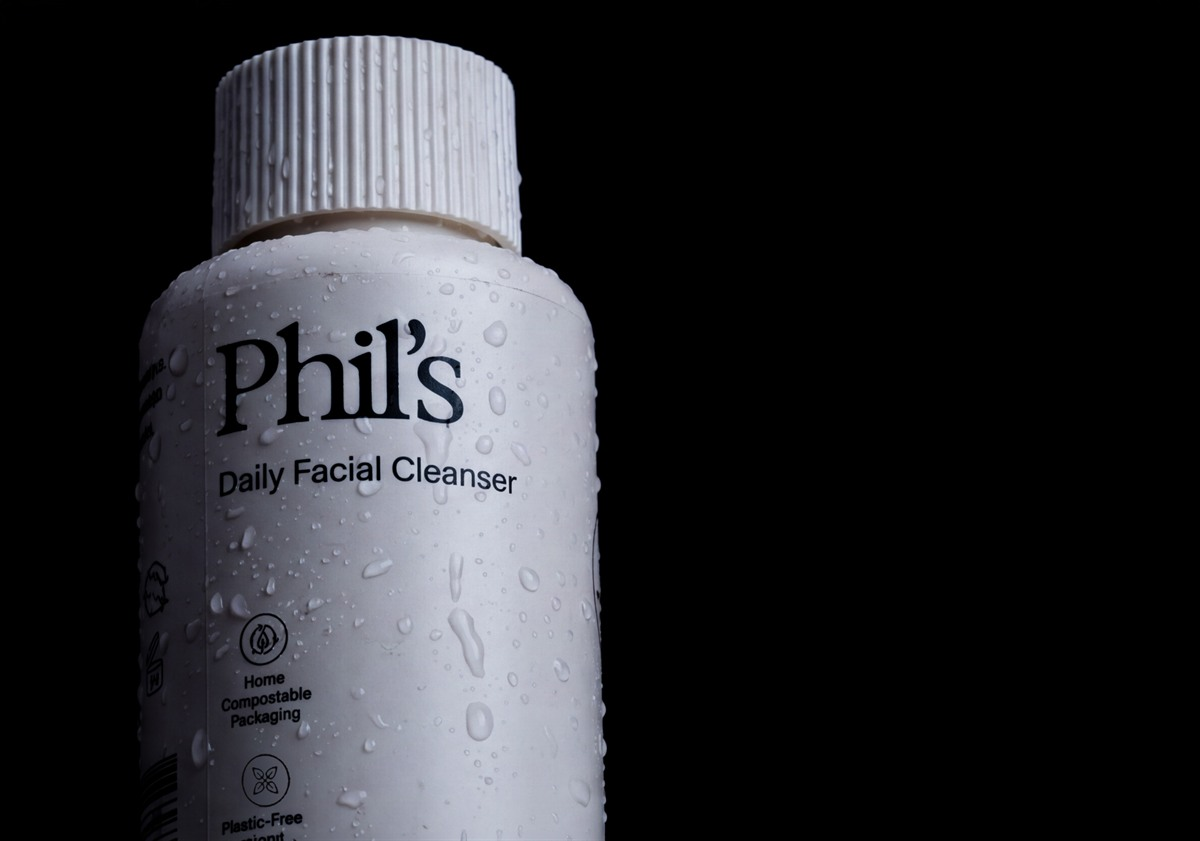
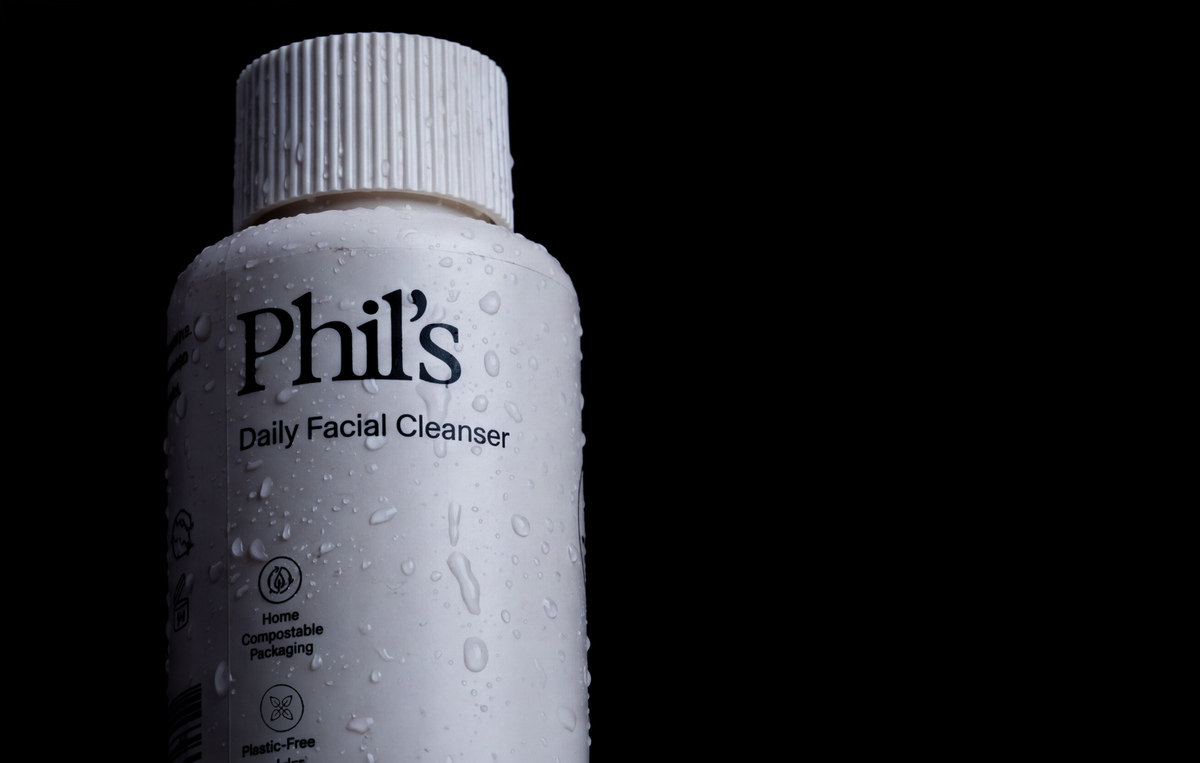
Add files via upload

diff --git a/src/styles.css b/src/styles.css
@@ -926,6 +926,18 @@ footer{background:var(--lab-panel);border-top:1px solid var(--lab-line)}
   width:31%;
   text-align:right;
 }
+.advertisement-concept-phils-daily-facial-cleanser.advertisement-concept-slide-0 .advertisement-copy{
+  left:auto;
+  right:6%;
+  width:31%;
+  text-align:right;
+}
+.advertisement-concept-phils-daily-facial-cleanser.advertisement-concept-slide-1 .advertisement-copy{
+  left:6%;
+  right:auto;
+  width:31%;
+  text-align:left;
+}
 .advertisement-concept-before-toothpaste.advertisement-concept-slide-0 .advertisement-copy{
   left:6%;
   right:auto;
@@ -943,8 +955,7 @@ footer{background:var(--lab-panel);border-top:1px solid var(--lab-line)}
   .advertisement-concept-alice-mushroom-chocolate .advertisement-copy,
   .advertisement-concept-mt-angel-joint-solution .advertisement-copy,
   .advertisement-concept-before-toothpaste.advertisement-concept-slide-0 .advertisement-copy,
-  .advertisement-concept-before-toothpaste.advertisement-concept-slide-1 .advertisement-copy,
-  .advertisement-concept-phils-daily-facial-cleanser .advertisement-copy{
+  .advertisement-concept-before-toothpaste.advertisement-concept-slide-1 .advertisement-copy{
     left:7%;
     right:7%;
     top:auto;
@@ -952,6 +963,25 @@ footer{background:var(--lab-panel);border-top:1px solid var(--lab-line)}
     width:auto;
     transform:none;
     text-align:left;
+  }
+  .advertisement-concept-phils-daily-facial-cleanser .advertisement-copy{
+    top:50%;
+    bottom:auto;
+    width:35%;
+    transform:translateY(-50%);
+  }
+  .advertisement-concept-phils-daily-facial-cleanser.advertisement-concept-slide-0 .advertisement-copy{
+    left:auto;
+    right:5%;
+    text-align:right;
+  }
+  .advertisement-concept-phils-daily-facial-cleanser.advertisement-concept-slide-1 .advertisement-copy{
+    left:5%;
+    right:auto;
+    text-align:left;
+  }
+  .advertisement-concept-phils-daily-facial-cleanser .advertisement-copy h4{
+    font-size:clamp(20px,6.5vw,34px);
   }
 }
 

diff --git a/src/projectData.ts b/src/projectData.ts
@@ -74,6 +74,10 @@ export const projects: Project[] = [
       { src: '/images/projects/phils-tilt-hero-2000.jpg', srcSet: '/images/projects/phils-tilt-hero-1200.jpg 1200w, /images/projects/phils-tilt-hero-2000.jpg 1376w', alt: 'Phil’s Daily Facial Cleanser angled against black with wide copy space.', width: 1376, height: 768 },
       { src: '/images/projects/phils-hero-copy-space-2000.jpg', srcSet: '/images/projects/phils-hero-copy-space-1200.jpg 1200w, /images/projects/phils-hero-copy-space-2000.jpg 2000w', alt: 'Phil’s Daily Facial Cleanser upright beside generous black copy space.', width: 2000, height: 1116 },
       { src: '/images/projects/phils-hero-2000.jpg', srcSet: '/images/projects/phils-hero-1200.jpg 1200w, /images/projects/phils-hero-2000.jpg 2000w', alt: 'Phil’s Daily Facial Cleanser presented upright against deep black.', width: 2000, height: 1116 },
+      // Placement-only derivatives used to demonstrate advertising layouts;
+      // these are not additional masters in the five-image offer.
+      { src: '/images/projects/phils-slight-macro-copy-space-2000.jpg', srcSet: '/images/projects/phils-slight-macro-copy-space-1200.jpg 1200w, /images/projects/phils-slight-macro-copy-space-2000.jpg 2000w', alt: 'Phil’s Daily Facial Cleanser slight macro at left with black advertising copy space at right.', width: 2000, height: 1271 },
+      { src: '/images/projects/phils-tilt-hero-copy-space-2000.jpg', srcSet: '/images/projects/phils-tilt-hero-copy-space-1200.jpg 1200w, /images/projects/phils-tilt-hero-copy-space-2000.jpg 1376w', alt: 'Phil’s Daily Facial Cleanser tilted at right with black advertising copy space at left.', width: 1376, height: 768 },
     ],
   },
   {

diff --git a/src/main.tsx b/src/main.tsx
@@ -153,7 +153,7 @@ const applicationSettings: Record<string, ApplicationSettings> = {
   },
   'mt-angel-joint-solution': { bannerIndex: 6, bannerIndexes: [6, 0], bannerIntervalMs: 30000, adIndex: 4, adIndexes: [4, 5], websiteHeadline: 'Joint support, brought into focus.', adHeadline: 'Movement starts here.' },
   'before-toothpaste': { bannerIndex: 4, bannerIndexes: [4, 0], bannerIntervalMs: 30000, adIndex: 3, adIndexes: [3, 4], websiteHeadline: 'A closer look at clean.', adHeadline: 'Clean, brought closer.' },
-  'phils-daily-facial-cleanser': { bannerIndex: 3, bannerIndexes: [3, 0], bannerIntervalMs: 30000, adIndex: 3, adIndexes: [3, 4], websiteHeadline: 'Clean, brought closer.', adHeadline: 'A better way to begin.' },
+  'phils-daily-facial-cleanser': { bannerIndex: 3, bannerIndexes: [3, 0], bannerIntervalMs: 30000, adIndex: 5, adIndexes: [5, 6], websiteHeadline: 'Clean, brought closer.', adHeadline: 'A better way to begin.' },
   trace: { bannerIndex: 2, adIndex: 0, websiteHeadline: '40,000 Volts, up close.', adHeadline: 'Blue light. Water. Energy.' },
 };
 
